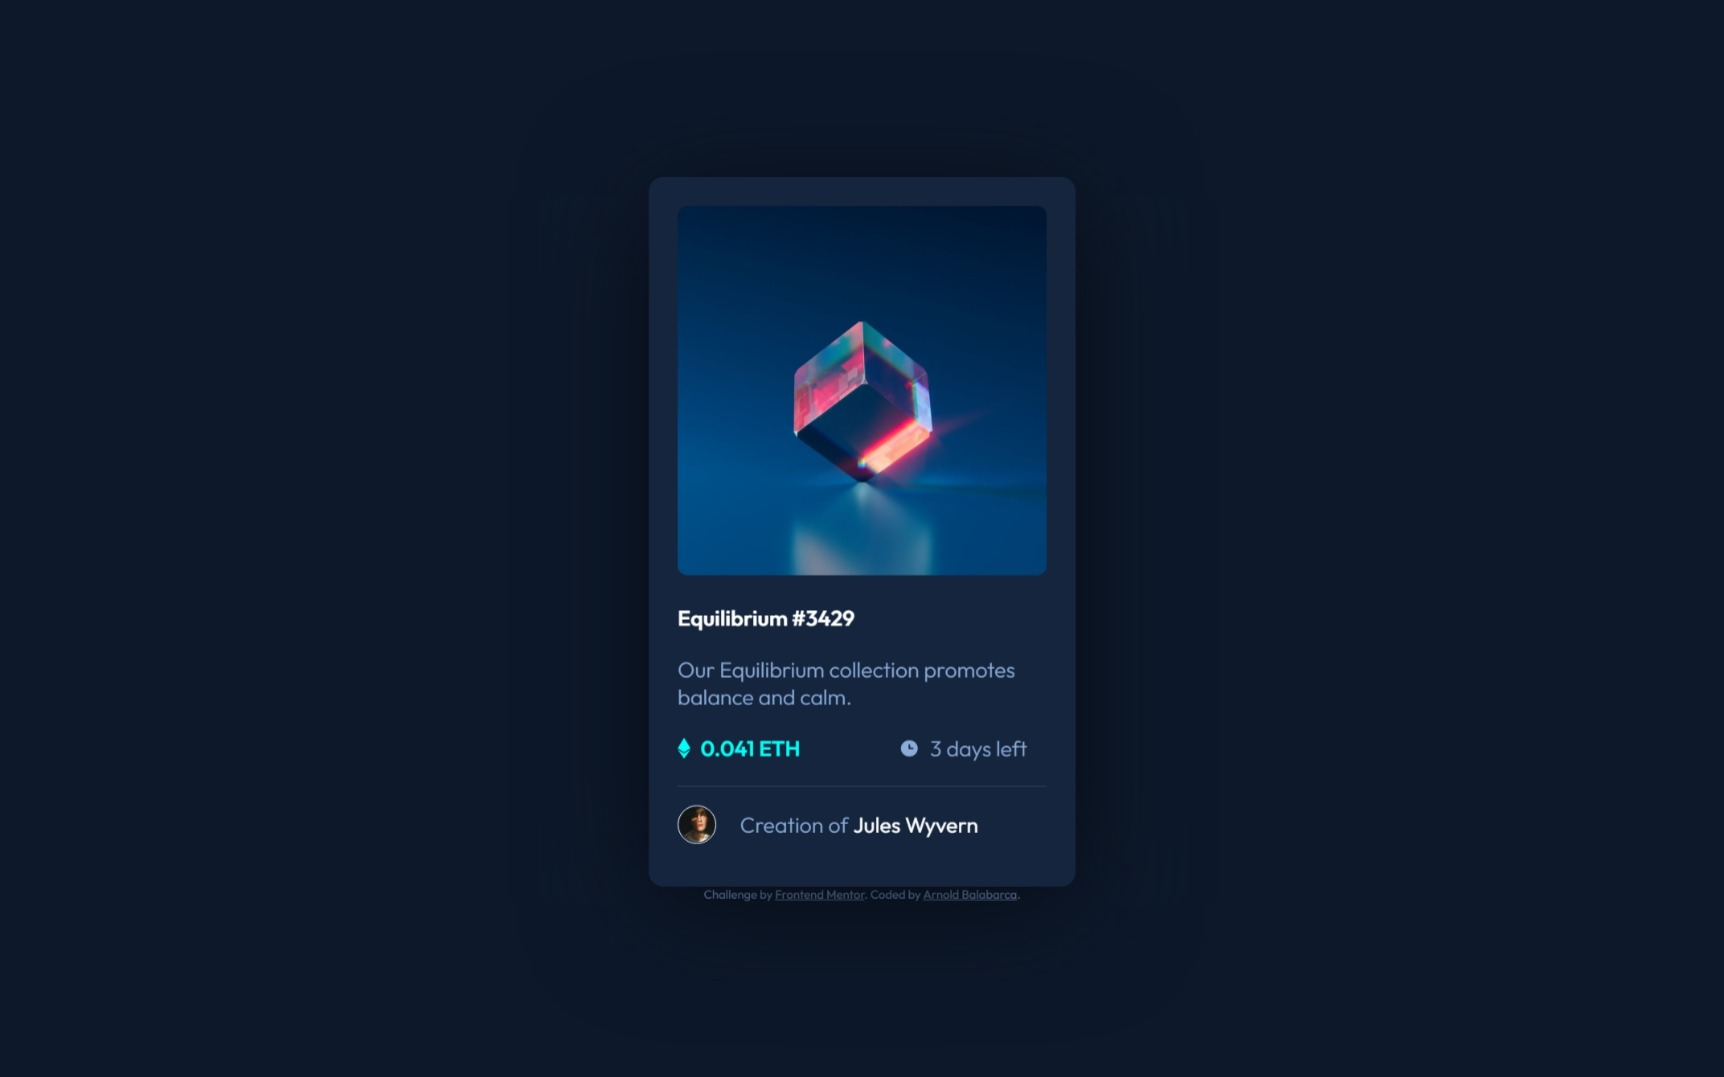
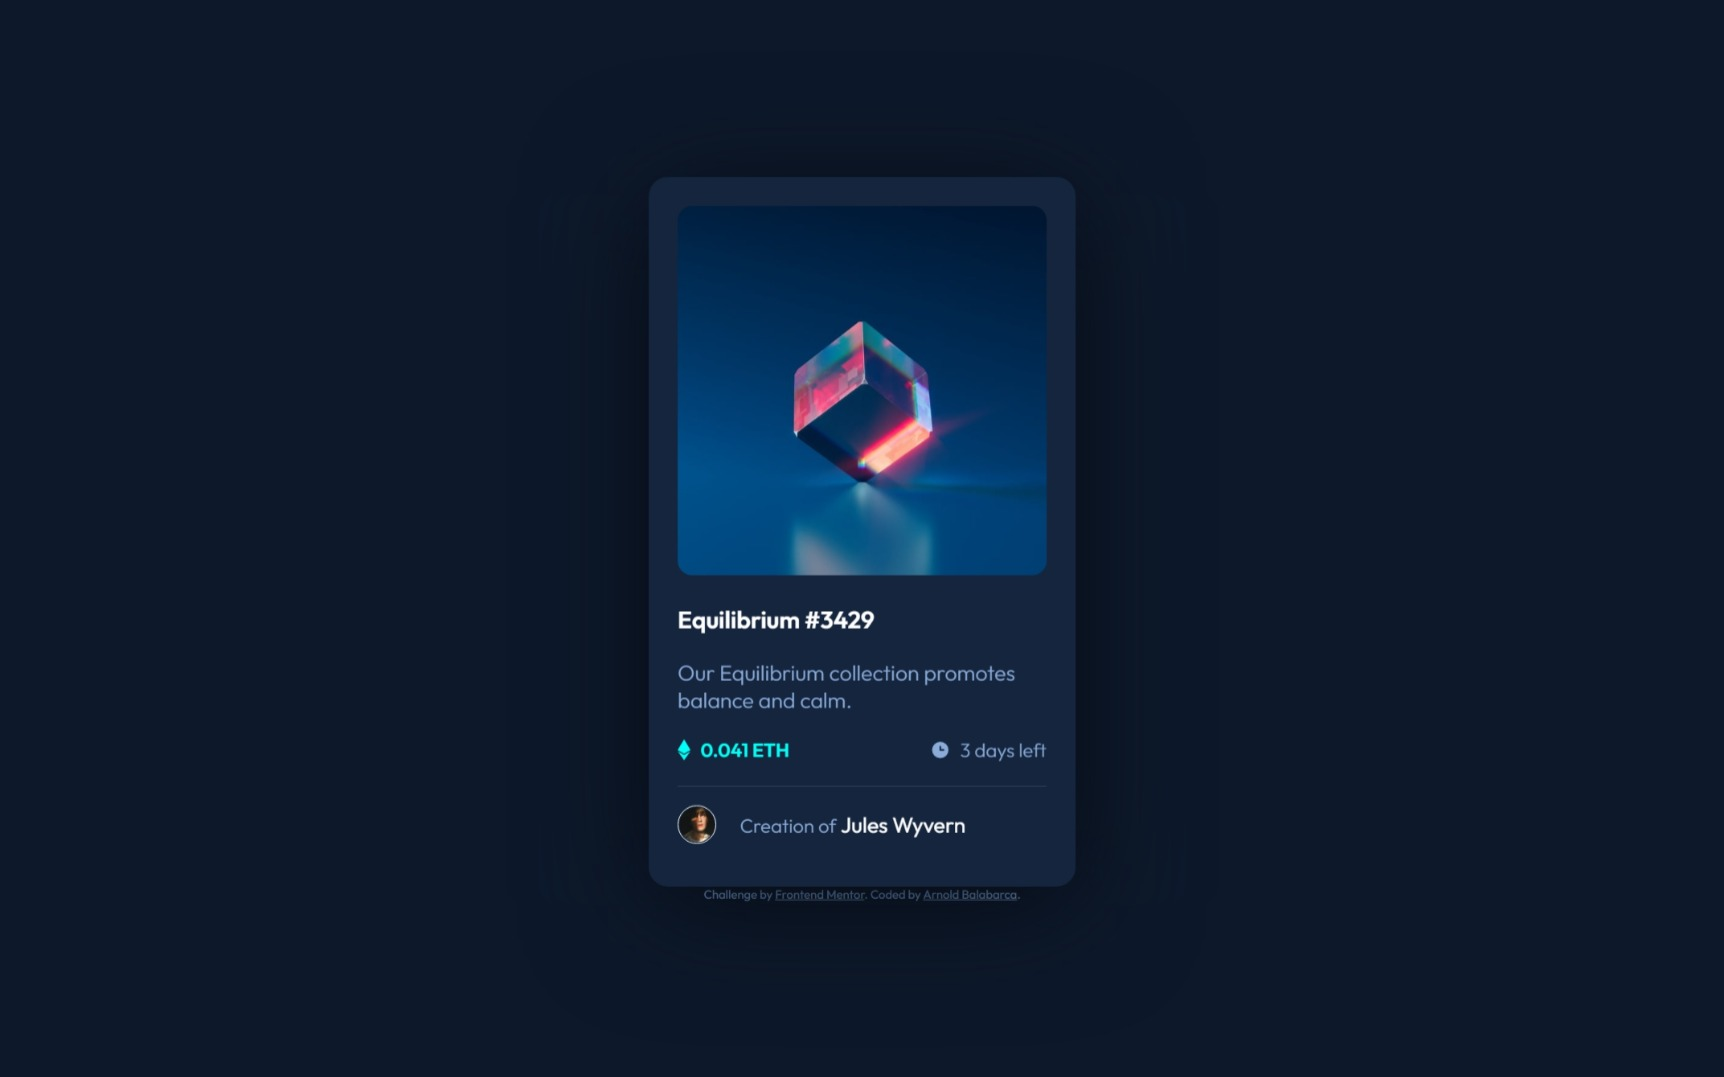
improvement size

diff --git a/index.html b/index.html
@@ -47,7 +47,7 @@
       height: 544px;
       padding: 24px;
       background-color: var(--very-dark-blue-card-bg);
-      border-radius: 12px;
+      border-radius: 16px;
       filter: drop-shadow( 0px 15px 50px hsl(217, 54%, 5%));
     }
     .container .nftImage{
@@ -55,7 +55,7 @@
     }
     .container .nftImage>img{
       width: 100%;
-      border-radius: 8px;
+      border-radius: 12px;
     }
     .container .nftImage .view{
       position: absolute;
@@ -64,7 +64,7 @@
       background-color: rgba(0, 255, 247, 0.5);
       height: 99%;
       width: 100%;
-      border-radius: 8px; 
+      border-radius: 12px; 
       cursor: pointer;
     }
 
@@ -84,7 +84,8 @@
       color: var(--dark-blue);
       font-weight: 600;
       text-align: left;
-      margin: 20px 0;      
+      margin: 20px 0;     
+      font-size: 20px;
     }
 
     .container h3:hover{
@@ -111,14 +112,11 @@
     .container .inf .time{
       display: flex;
       align-items: center;
-      width: 40%;
     }
 
     .container .inf .value img,
     .container .inf .time img{
-      height: 18px;
       margin-right: 8px;
-
     }
 
     .container .inf .value p{
@@ -128,18 +126,18 @@
 
     .container .inf p{
       margin: 0;
+      font-size: 16px;
     }
-
-    .container .inf p{
-      margin: 0;
-    }
-
 
     .container .credits{
       display: flex;
       align-items: center;
       border-top: 1px solid var(--very-dark-blue-line);
     }
+    .container .credits p{
+      font-size: 16px;
+    }
+
 
     .container .credits img{
       height: 32px;
